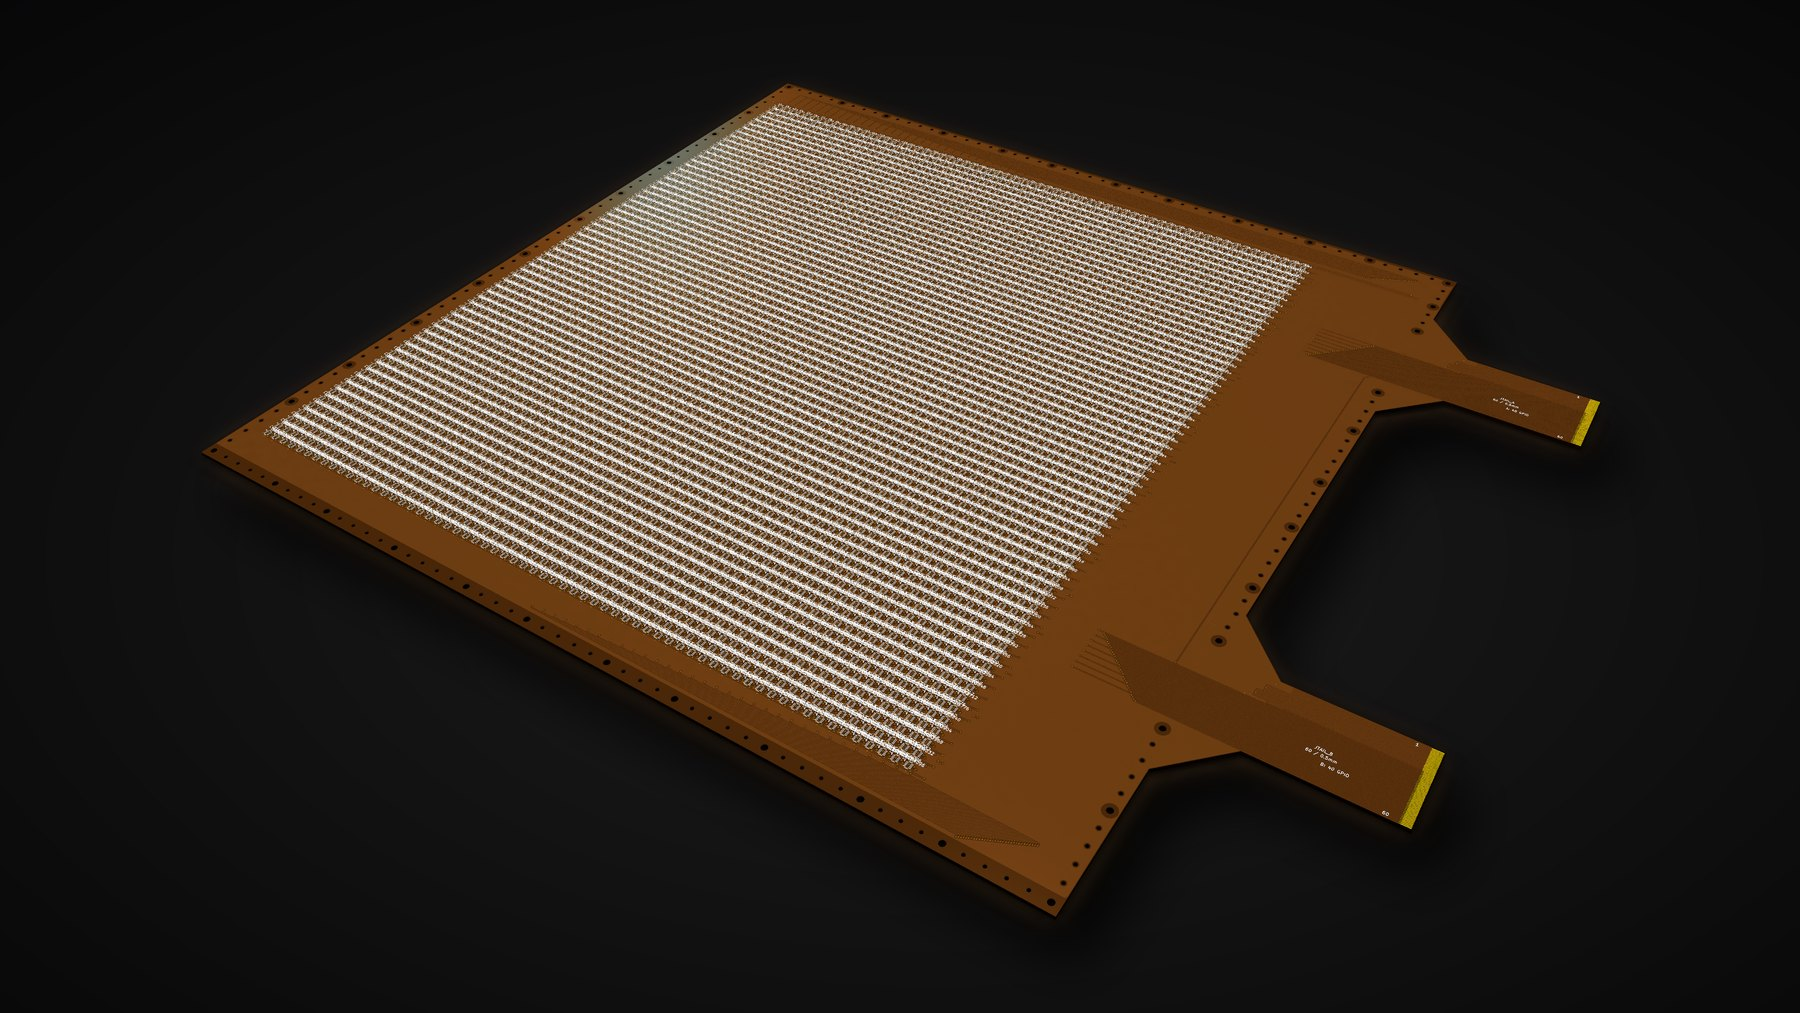
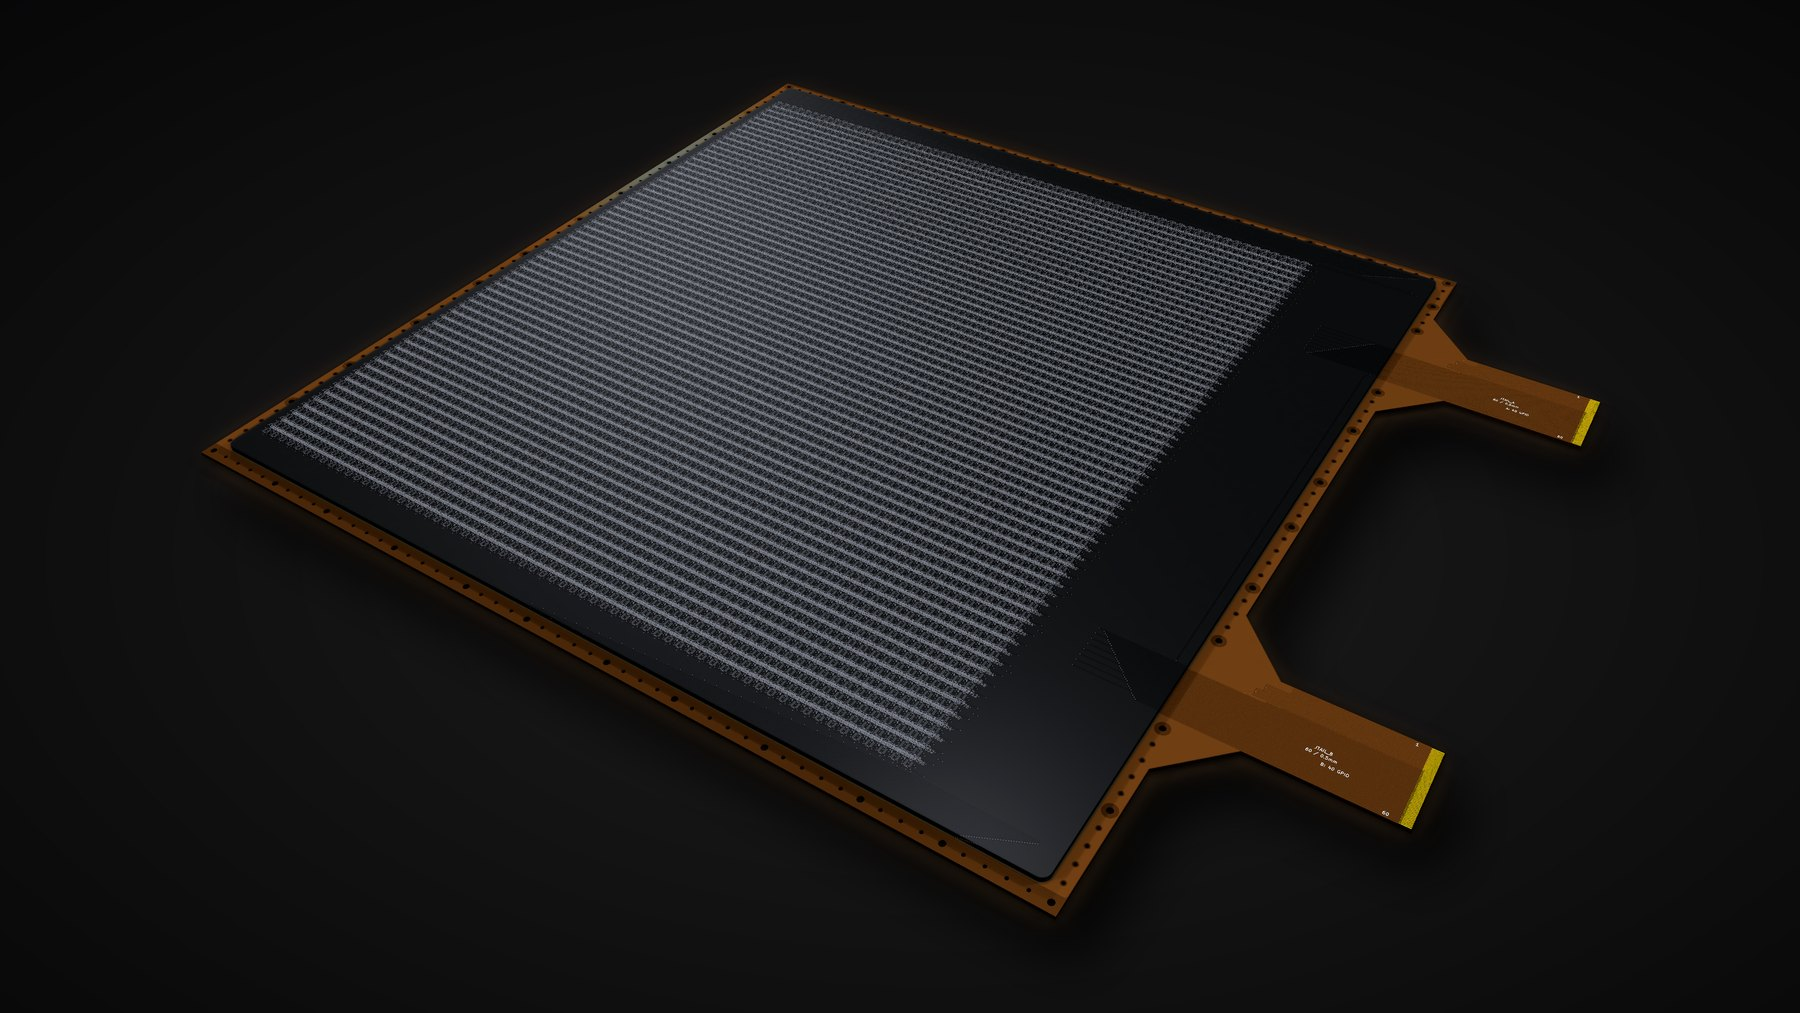
64x64 card: render with 2 mm black silicone skin over the sensing head
Claude-Session: https://claude.ai/code/session_01XzxWyJcAm5T9ntiKTcLrUh

Changed region(s): [[0.1244, 0.0918, 0.8089, 0.8875]]

diff --git a/index.html b/index.html
@@ -319,7 +319,7 @@
 
     <div class="mega-card reveal reveal-up" aria-label="Next LuxTac board">
       <div class="mega-media">
-        <img src="assets/boards/board-64x64-hero.jpg" alt="Render of the 64&times;64 LuxTac board: 4,096 optical taxels on a single board" loading="lazy" draggable="false">
+        <img src="assets/boards/board-64x64-hero.jpg" alt="Render of the 64&times;64 LuxTac board under its black silicone skin: 4,096 optical taxels on a single board" loading="lazy" draggable="false">
       </div>
       <div class="mega-text">
         <p class="gen-eyebrow">Next up</p>
